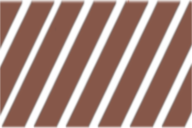
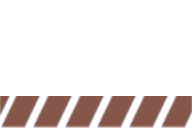
leftright belt made thinner

diff --git a/tactics_project/src/com/marklynch/level/constructs/bounds/structure/structureroom/puzzleroom/PuzzleRoomConveyerBelt.java b/tactics_project/src/com/marklynch/level/constructs/bounds/structure/structureroom/puzzleroom/PuzzleRoomConveyerBelt.java
@@ -32,34 +32,34 @@ public class PuzzleRoomConveyerBelt extends StructureRoom implements SwitchListe
 		this.posX = posX;
 		this.posY = posY;
 
-		conveyerBelts.add(Templates.CONVEYER_BELT.makeCopy(Level.squares[posX + 1][posY], null, Direction.RIGHT));
-		Templates.CONVEYER_BELT.makeCopy(Level.squares[posX + 2][posY], null, Direction.RIGHT);
-		Templates.CONVEYER_BELT.makeCopy(Level.squares[posX + 3][posY], null, Direction.RIGHT);
-		Templates.CONVEYER_BELT.makeCopy(Level.squares[posX + 4][posY], null, Direction.RIGHT);
-		Templates.CONVEYER_BELT.makeCopy(Level.squares[posX + 5][posY], null, Direction.RIGHT);
-		Templates.CONVEYER_BELT.makeCopy(Level.squares[posX + 6][posY], null, Direction.RIGHT);
-		Templates.CONVEYER_BELT.makeCopy(Level.squares[posX + 7][posY], null, Direction.RIGHT);
-		Templates.CONVEYER_BELT.makeCopy(Level.squares[posX + 8][posY], null, Direction.RIGHT);
-		Templates.CONVEYER_BELT.makeCopy(Level.squares[posX + 9][posY], null, Direction.RIGHT);
-		Templates.CONVEYER_BELT.makeCopy(Level.squares[posX + 10][posY], null, Direction.RIGHT);
-		Templates.CONVEYER_BELT.makeCopy(Level.squares[posX + 11][posY], null, Direction.RIGHT);
-		Templates.CONVEYER_BELT.makeCopy(Level.squares[posX + 12][posY], null, Direction.RIGHT);
+//		conveyerBelts.add(Templates.CONVEYER_BELT.makeCopy(Level.squares[posX + 1][posY+1]], null, Direction.RIGHT));
+		Templates.CONVEYER_BELT.makeCopy(Level.squares[posX + 2][posY + 1], null, Direction.RIGHT);
+		Templates.CONVEYER_BELT.makeCopy(Level.squares[posX + 3][posY + 1], null, Direction.RIGHT);
+		Templates.CONVEYER_BELT.makeCopy(Level.squares[posX + 4][posY + 1], null, Direction.RIGHT);
+		Templates.CONVEYER_BELT.makeCopy(Level.squares[posX + 5][posY + 1], null, Direction.RIGHT);
+		Templates.CONVEYER_BELT.makeCopy(Level.squares[posX + 6][posY + 1], null, Direction.RIGHT);
+//		Templates.CONVEYER_BELT.makeCopy(Level.squares[posX + 7][posY + 1], null, Direction.RIGHT);
+//		Templates.CONVEYER_BELT.makeCopy(Level.squares[posX + 8][posY + 1], null, Direction.RIGHT);
+//		Templates.CONVEYER_BELT.makeCopy(Level.squares[posX + 9][posY + 1], null, Direction.RIGHT);
+//		Templates.CONVEYER_BELT.makeCopy(Level.squares[posX + 10][posY + 1], null, Direction.RIGHT);
+//		Templates.CONVEYER_BELT.makeCopy(Level.squares[posX + 11][posY + 1], null, Direction.RIGHT);
+//		Templates.CONVEYER_BELT.makeCopy(Level.squares[posX + 12][posY + 1], null, Direction.RIGHT);
 
-		Templates.CONVEYER_BELT.makeCopy(Level.squares[posX + 1][posY + 1], null, Direction.LEFT);
-		Templates.CONVEYER_BELT.makeCopy(Level.squares[posX + 2][posY + 1], null, Direction.LEFT);
-		Templates.CONVEYER_BELT.makeCopy(Level.squares[posX + 3][posY + 1], null, Direction.LEFT);
-		Templates.CONVEYER_BELT.makeCopy(Level.squares[posX + 4][posY + 1], null, Direction.LEFT);
-		Templates.CONVEYER_BELT.makeCopy(Level.squares[posX + 5][posY + 1], null, Direction.LEFT);
-		Templates.CONVEYER_BELT.makeCopy(Level.squares[posX + 6][posY + 1], null, Direction.LEFT);
-		Templates.CONVEYER_BELT.makeCopy(Level.squares[posX + 7][posY + 1], null, Direction.LEFT);
-		Templates.CONVEYER_BELT.makeCopy(Level.squares[posX + 8][posY + 1], null, Direction.LEFT);
-		Templates.CONVEYER_BELT.makeCopy(Level.squares[posX + 9][posY + 1], null, Direction.LEFT);
-		Templates.CONVEYER_BELT.makeCopy(Level.squares[posX + 10][posY + 1], null, Direction.LEFT);
-		Templates.CONVEYER_BELT.makeCopy(Level.squares[posX + 11][posY + 1], null, Direction.LEFT);
-		Templates.CONVEYER_BELT.makeCopy(Level.squares[posX + 12][posY + 1], null, Direction.LEFT);
-
-		Templates.CONVEYER_BELT.makeCopy(Level.squares[posX + 13][posY], null, Direction.DOWN);
-		Templates.CONVEYER_BELT.makeCopy(Level.squares[posX + 13][posY + 1], null, Direction.DOWN);
+//		Templates.CONVEYER_BELT.makeCopy(Level.squares[posX + 1][posY + 1], null, Direction.LEFT);
+//		Templates.CONVEYER_BELT.makeCopy(Level.squares[posX + 2][posY + 1], null, Direction.LEFT);
+//		Templates.CONVEYER_BELT.makeCopy(Level.squares[posX + 3][posY + 1], null, Direction.LEFT);
+//		Templates.CONVEYER_BELT.makeCopy(Level.squares[posX + 4][posY + 1], null, Direction.LEFT);
+//		Templates.CONVEYER_BELT.makeCopy(Level.squares[posX + 5][posY + 1], null, Direction.LEFT);
+//		Templates.CONVEYER_BELT.makeCopy(Level.squares[posX + 6][posY + 1], null, Direction.LEFT);
+//		Templates.CONVEYER_BELT.makeCopy(Level.squares[posX + 7][posY + 1], null, Direction.LEFT);
+//		Templates.CONVEYER_BELT.makeCopy(Level.squares[posX + 8][posY + 1], null, Direction.LEFT);
+//		Templates.CONVEYER_BELT.makeCopy(Level.squares[posX + 9][posY + 1], null, Direction.LEFT);
+//		Templates.CONVEYER_BELT.makeCopy(Level.squares[posX + 10][posY + 1], null, Direction.LEFT);
+//		Templates.CONVEYER_BELT.makeCopy(Level.squares[posX + 11][posY + 1], null, Direction.LEFT);
+//		Templates.CONVEYER_BELT.makeCopy(Level.squares[posX + 12][posY + 1], null, Direction.LEFT);
+//
+//		Templates.CONVEYER_BELT.makeCopy(Level.squares[posX + 13][posY], null, Direction.DOWN);
+//		Templates.CONVEYER_BELT.makeCopy(Level.squares[posX + 13][posY + 1], null, Direction.DOWN);
 
 		Templates.PRESSURE_PLATE.makeCopy(Level.squares[posX + 4][posY + 4], null, SWITCH_TYPE.ON_OFF, 1,
 				conveyerBelts.toArray(new ConveyerBelt[conveyerBelts.size()]));
